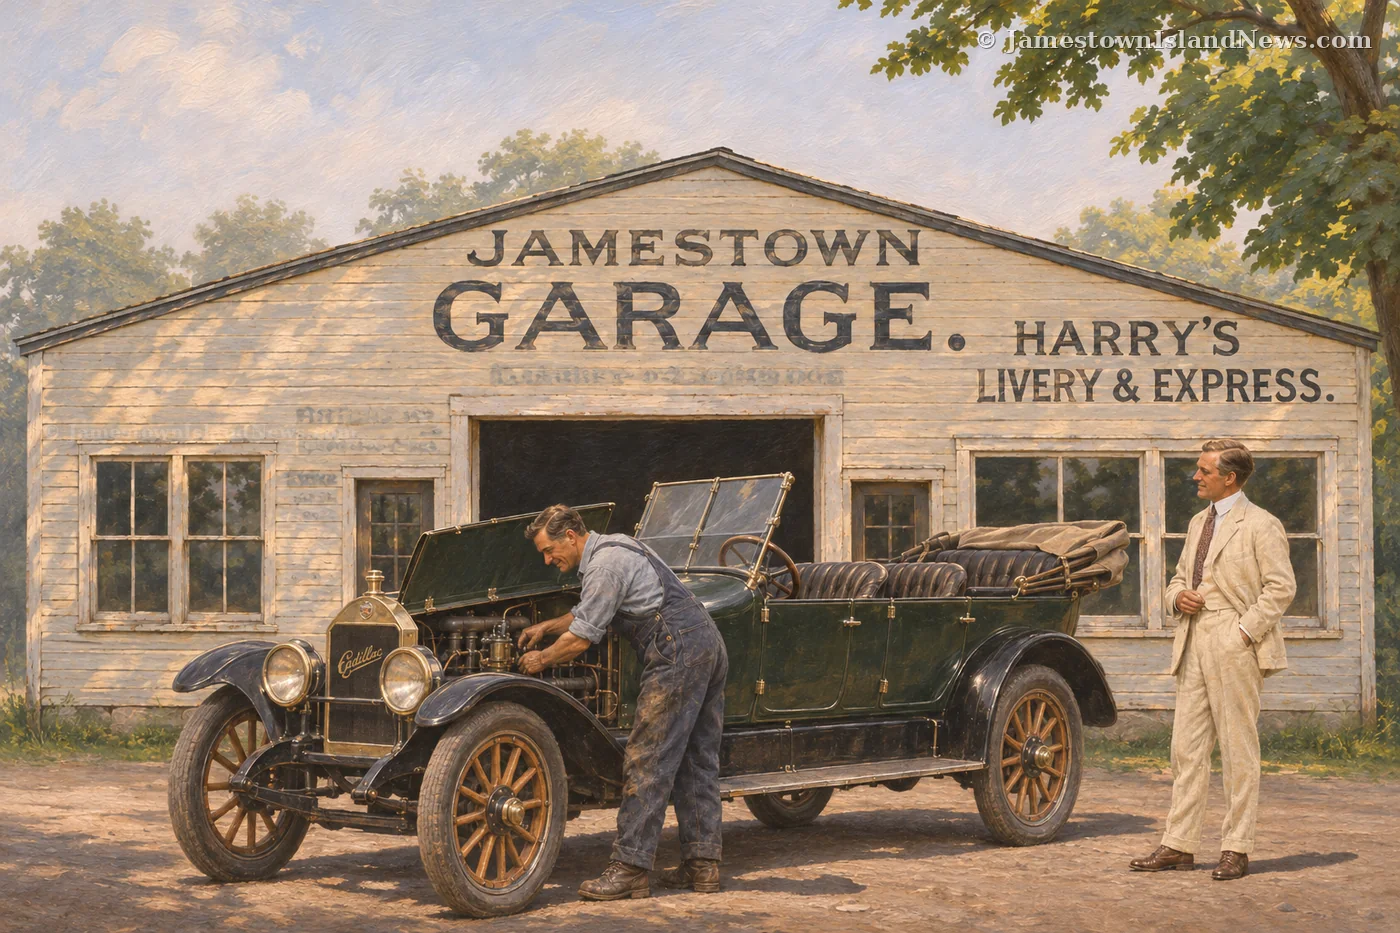
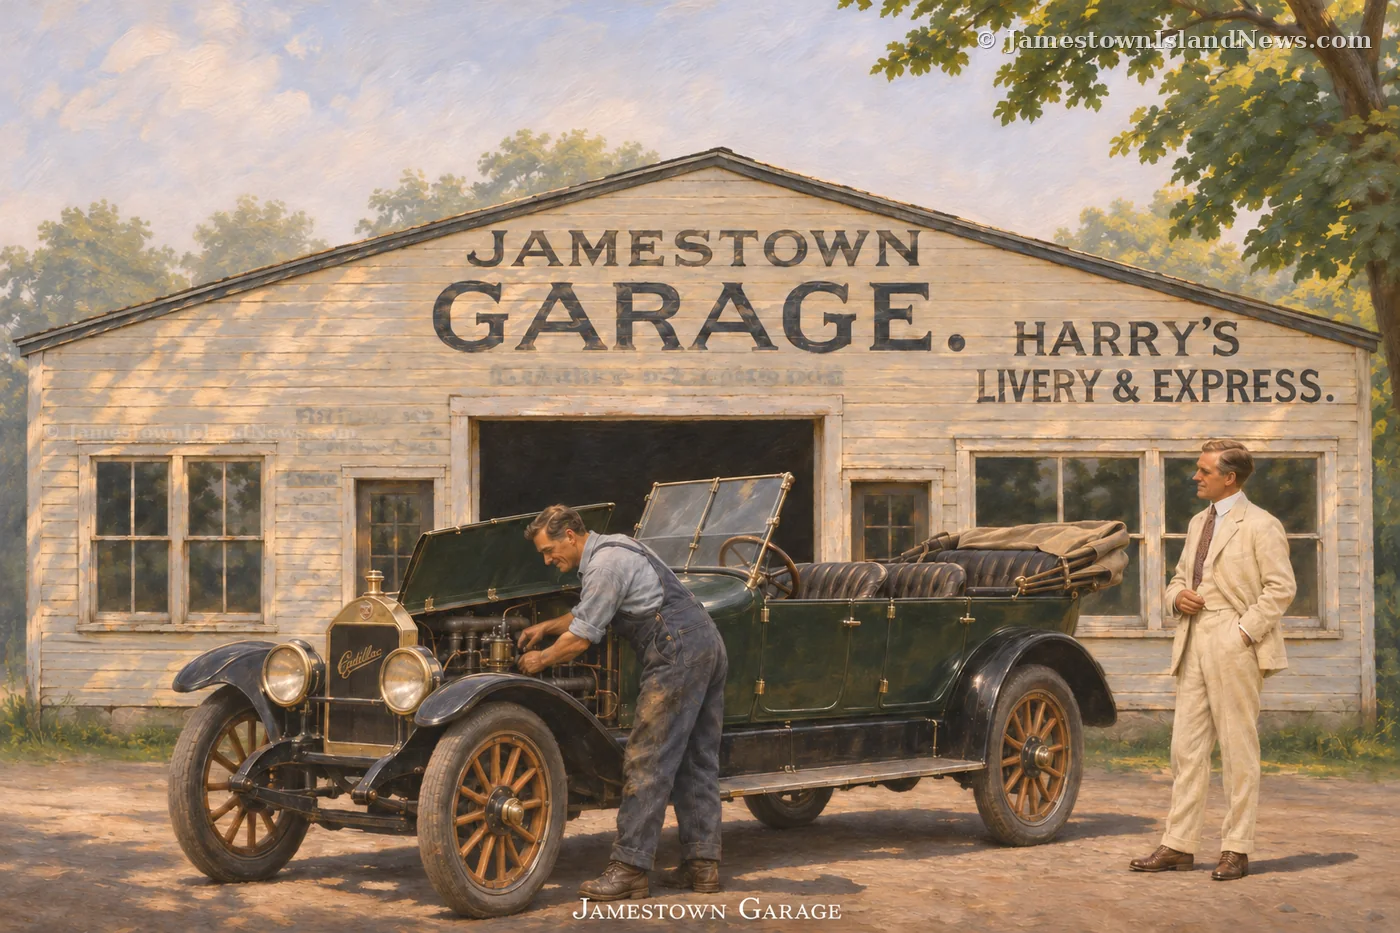
Art area: labeled Jamestown Garage, one small upcoming-event line per painting; old cover flips and ad back no longer take over the art box
Claude-Session: https://claude.ai/code/session_01Rvhfw8tap8tk6DKU34sk3v

diff --git a/index.html b/index.html
@@ -349,7 +349,7 @@ html body .cop::after{content:""!important;display:block!important;position:abso
 </style><style id="vwebCss">.vcard .vmeta a.vweb{font-weight:700;color:var(--k,#D4ECF5)!important;text-decoration:none}.vcard .vmeta a.vweb:hover{text-decoration:underline}.vcard p{margin:6px 0 8px}</style><script>window.EP_COVER_POSTERS=true;document.documentElement.classList.add("ep-cov")</script>
 <script>window.EP_COAST=true</script>
 <script>window.EP_MAST={img:'img/posters/story-jamestown.jpg'}</script>
-<script src="posters.js?v=44"></script>
+<script src="posters.js?v=45"></script>
 <style>.new3-glow{display:inline-block;margin-left:7px;padding:3px 8px;border-radius:5px;background:#B5123A;color:#fff;font-size:11px;font-weight:900;letter-spacing:.07em;vertical-align:middle;box-shadow:0 0 7px #B5123A,0 0 16px #B5123A;animation:new3pulse 1.8s ease-in-out infinite}@keyframes new3pulse{50%{box-shadow:0 0 13px #B5123A,0 0 26px #B5123A;background:#B5123A}}@media(prefers-reduced-motion:reduce){.new3-glow{animation:none}}</style><link rel="stylesheet" href="https://fonts.googleapis.com/css2?family=IM+Fell+English:ital@0;1&family=IM+Fell+English+SC&display=swap">
 </head>
 <body>
@@ -2521,7 +2521,7 @@ document.readyState==='loading'?document.addEventListener('DOMContentLoaded',st)
 const st=document.createElement('style');st.textContent='.cvr .cimg .cback{position:absolute;inset:0;display:none;z-index:6;cursor:pointer;background:#0F1F36}.cvr .cimg .cback img{display:block;width:100%;height:100%;object-fit:cover;animation:none!important;transform:none!important}.cvr .cimg.back .cback{display:block}';document.head.appendChild(st);
 const vidOn=()=>{const v=document.getElementById('irBox');return v&&getComputedStyle(v).display!=='none'&&getComputedStyle(v).opacity!=='0'};
 let busy=false;
-function flip(toBack){const b=document.querySelector('.cvr .cimg');if(!b||busy)return;if(toBack&&(document.hidden||vidOn()))return;if(!!toBack===b.classList.contains('back'))return;
+function flip(toBack){const b=document.querySelector('.cvr .cimg:not(.artBox)');if(!b||busy)return;if(toBack&&(document.hidden||vidOn()))return;if(!!toBack===b.classList.contains('back'))return;
  if(!b.querySelector('.cback')){const d=document.createElement('span');d.className='cback';d.innerHTML='<img src="'+BK+'" alt="Back cover: advertise with Jamestown Island News">';b.appendChild(d)}
  busy=true;b.style.transition='transform .38s ease-in';b.style.transform='perspective(1400px) rotateY(90deg)';
  setTimeout(()=>{b.classList.toggle('back',!!toBack);if(toBack)bar(b);else unbar();b.style.transition='none';b.style.transform='perspective(1400px) rotateY(-90deg)';
@@ -2555,7 +2555,7 @@ function evFace(kind){const E=EV&&EV.E,W=EV&&EV.W,B=EV&&EV.B;
   return {kind:'ev',html:photo(6)+'<span class="e-body"><i class="e-k">Worship on the island</i><div>'+ch.map(c=>{const st=new Set(),L=W[c].filter(x=>{const k=x.date+x.time;if(st.has(k))return false;st.add(k);return true}).slice(0,3);return '<h4>'+esc2(c.replace(/ Catholic| Episcopal/,''))+'</h4><ul>'+L.map(x=>{const d=dparts(x.date);return '<li><span>'+esc2(x.artists.replace(/ at .*$/,''))+'</span><i>'+d[0]+' '+esc2(x.time)+'</i></li>'}).join('')+'</ul>'}).join('')+'</div><span class="e-go">Island calendar →</span></span>'}}
  const x=E[evI++%E.length],d=dparts(x.date);if(window.bigPoster){const bp=window.bigPoster(x,'Jamestown');if(bp)return {kind:'ev',html:bp}}const ph=/narragansett caf/i.test(x.venue)?[5,0,1,3][evI%4]:evI;
  return {kind:'ev',html:photo(ph)+'<span class="e-dt"><small>'+d[0]+'</small>'+esc2(d[1])+'</span><span class="e-body"><i class="e-k">Coming up on the island</i><strong class="e-t '+tcls(x.artists)+'">'+esc2(x.artists)+'</strong><span class="e-w">'+esc2(x.time)+'</span><span class="e-v">'+esc2(x.venue)+'<small>'+esc2((x.address||'').replace(/,? ?Jamestown, RI \d+/,'').replace(x.venue+', ','').replace(x.venue,''))+'</small></span><span class="e-go">Island calendar →</span></span>'}}
-function flipEvt(on,kind){const b=document.querySelector('.cvr .cimg');if(!b||busy)return;if(on&&(document.hidden||vidOn()||b.classList.contains('back')))return;if(!!on===b.classList.contains('evt'))return;
+function flipEvt(on,kind){const b=document.querySelector('.cvr .cimg:not(.artBox)');if(!b||busy)return;if(on&&(document.hidden||vidOn()||b.classList.contains('back')))return;if(!!on===b.classList.contains('evt'))return;
  let html=null;if(on){const r=evFace(kind);if(!r)return;html=r.html;let f=b.querySelector('.cevt');if(!f){f=document.createElement('span');f.className='cevt';b.appendChild(f)}f.dataset.kind=r.kind;f.innerHTML=html}
  busy=true;b.style.transition='transform .38s ease-in';b.style.transform='perspective(1400px) rotateY(90deg)';
  setTimeout(()=>{b.classList.toggle('evt',!!on);b.style.transition='none';b.style.transform='perspective(1400px) rotateY(-90deg)';
@@ -2586,9 +2586,9 @@ function tkBuild(el){tkLoad().then(t=>{if(!t||!t.rows.length)return;const one=t.
 setInterval(()=>{const s=document.querySelector('.cvr .cvside');if(!s||s.querySelector('.evtk'))return;const d=document.createElement('div');d.className='evtk';s.appendChild(d);tkBuild(d)},1000);
 addEventListener('click',e=>{const c=e.target.closest&&e.target.closest('.evtk .tr');if(!c)return;e.preventDefault();e.stopImmediatePropagation();try{go('cal')}catch(_){location.hash='cal'}},true);
 let frozen=false;const held=()=>frozen||!!document.querySelector('.cvr .cimg:hover,.bkSpread:hover');const whenFree=fn=>{const tk=()=>{if(held())setTimeout(tk,1000);else fn()};tk()};
-let cyc=0;setInterval(()=>{const b=document.querySelector('.cvr .cimg');if(!b||busy||b.classList.contains('back')||b.classList.contains('evt')||document.hidden||vidOn())return;const k=cyc++%10;if(k===0){flip(true);setTimeout(()=>whenFree(()=>flip(false)),7000)}else if(k===5){openBook()}else{const kind=(k===4||k===9)?'biz':(k===8?'worship':'ev');evLoad().then(()=>{flipEvt(true,kind);setTimeout(()=>whenFree(()=>flipEvt(false)),7000)})}},14000);
+let cyc=0;setInterval(()=>{const b=document.querySelector('.cvr .cimg:not(.artBox)');if(!b||busy||b.classList.contains('back')||b.classList.contains('evt')||document.hidden||vidOn())return;const k=cyc++%10;if(k===0){flip(true);setTimeout(()=>whenFree(()=>flip(false)),7000)}else if(k===5){openBook()}else{const kind=(k===4||k===9)?'biz':(k===8?'worship':'ev');evLoad().then(()=>{flipEvt(true,kind);setTimeout(()=>whenFree(()=>flipEvt(false)),7000)})}},14000);
 ['img/inside-cover-ad.jpg','img/page-one-ad.jpg'].forEach(s=>{new Image().src=s});
-function openBook(){const b=document.querySelector('.cvr .cimg');if(!b||busy||document.hidden||vidOn()||b.classList.contains('back'))return;const cv=b.closest('.cvr');if(!cv)return;
+function openBook(){const b=document.querySelector('.cvr .cimg:not(.artBox)');if(!b||busy||document.hidden||vidOn()||b.classList.contains('back'))return;const cv=b.closest('.cvr');if(!cv)return;
  busy=true;if(getComputedStyle(cv).position==='static')cv.style.position='relative';
  const r=b.getBoundingClientRect(),c=cv.getBoundingClientRect();const L=r.left-c.left,T=r.top-c.top,w=Math.min(r.width*2,c.right-r.left);
  const s=document.createElement('div');s.className='bkSpread';s.style.cssText='position:absolute;left:'+L+'px;top:'+T+'px;width:'+w+'px;height:'+r.height+'px;z-index:3;display:flex;opacity:0;transition:opacity .5s ease;cursor:pointer;box-shadow:0 18px 40px rgba(10,20,40,.7);border-radius:6px;overflow:hidden';
@@ -2765,7 +2765,7 @@ const go=()=>{const l=document.getElementById('dirList');if(!l)return setTimeout
 <script id="mailLinks">addEventListener('click',e=>{const a=e.target.closest&&e.target.closest('a[href="#coverage"],a[href="#contact"]');if(!a)return;e.preventDefault();e.stopImmediatePropagation();const u=['doug','islandnewsmedia'].join(String.fromCharCode(64))+'.com';const s=a.getAttribute('href')==='#coverage'?'Coverage request for Jamestown Island News':'Jamestown Island News';location.href='mai'+'lto:'+u+'?subject='+encodeURIComponent(s)},true);</script>
 <script id="bridgeCar">(()=>{return;const st=document.createElement('style');st.textContent='.cvr .cimg .car{position:absolute;z-index:4;width:2.2%;height:.6%;pointer-events:none;transform:translate(-50%,-100%)}.cvr .cimg .car::before,.cvr .cimg .car::after{content:"";position:absolute;top:0;width:45%;height:100%;border-radius:50%}.cvr .cimg .car.r::after,.cvr .cimg .car.l::before{background:#EEE9E5;box-shadow:0 0 6px 2px rgba(238,233,229,.9),0 0 14px 4px rgba(238,233,229,.45)}.cvr .cimg .car.r::before,.cvr .cimg .car.l::after{background:#B5123A;box-shadow:0 0 5px 1px rgba(181,18,58,.8)}.cvr .cimg .car::before{left:0}.cvr .cimg .car::after{right:0}.cvr .cimg.back .car,.cvr .cimg.evt .car{display:none}';document.head.appendChild(st);
 const X0=0,Y0=39.6,X1=100,Y1=49.7;
-function drive(){const b=document.querySelector('.cvr .cimg');if(b&&!document.hidden&&!b.classList.contains('back')&&b.style.opacity!=='0'){const r=Math.random()<.5;const c=document.createElement('span');c.className='car '+(r?'r':'l');b.appendChild(c);
+function drive(){const b=document.querySelector('.cvr .cimg:not(.artBox)');if(b&&!document.hidden&&!b.classList.contains('back')&&b.style.opacity!=='0'){const r=Math.random()<.5;const c=document.createElement('span');c.className='car '+(r?'r':'l');b.appendChild(c);
  const a=r?[X0,Y0,X1,Y1]:[X1,Y1,X0,Y0];const dur=7000+Math.random()*3000;
  const an=c.animate([{left:a[0]+'%',top:a[1]+'%',opacity:0},{opacity:1,offset:.06},{opacity:1,offset:.94},{left:a[2]+'%',top:a[3]+'%',opacity:0}],{duration:dur,easing:'linear'});an.onfinish=()=>c.remove()}
  setTimeout(drive,12000+Math.random()*25000)}
@@ -3099,6 +3099,10 @@ go();addEventListener('DOMContentLoaded',go);setTimeout(go,1500)})();</script>
 #artBig{position:fixed;inset:0;z-index:9999;background:rgba(10,20,40,.94);display:flex;align-items:center;justify-content:center;cursor:zoom-out}
 #artBig img{max-width:94vw;max-height:90vh;box-shadow:0 10px 40px #000}
 #coverSlot .cimg .artShow .ab{position:absolute;inset:-30px;background:center/cover no-repeat;filter:blur(22px) brightness(.55)}#coverSlot .cimg .artShow .af{position:absolute;inset:0;background:center/contain no-repeat}#coverSlot .cimg .artShow .af.cv{background-size:cover}
+#coverSlot .cimg .artShow .artAd{position:absolute;left:10px;right:10px;top:10px;z-index:3;display:block;padding:7px 10px;border-radius:5px;background:rgba(10,20,40,.72);color:#fff;text-decoration:none;font:600 13px/1.3 "Libre Franklin",Arial,sans-serif;opacity:0;transition:opacity .8s}
+#coverSlot .cimg .artShow .artAd.on{opacity:1}
+#coverSlot .cimg .artShow .artAd small{display:block;font:700 10.5px/1.2 "Libre Franklin",Arial,sans-serif;letter-spacing:.14em;text-transform:uppercase;color:#D4ECF5;margin-bottom:2px}
+#coverSlot .cimg .artShow .artAd b{font:700 15px/1.25 "Playfair Display",Georgia,serif;color:#fff}
 </style>
 <script id="artShowJs">(()=>{
 /* Art area: the box beside the top story shows the owner's best paintings */
@@ -3107,7 +3111,14 @@ const go=()=>{const old=document.querySelector('#coverSlot .cimg:not(.artBox)');
 const a=document.createElement('span');a.className='artShow';a.setAttribute('role','img');a.setAttribute('aria-label','Paintings of Jamestown');
 a.innerHTML=ART.map((x,i)=>'<span class="ai'+(i?'':' on')+'">'+(x[3]==='fit'?'<span class="ab" style="background-image:url('+x[0]+')"></span><span class="af" style="background-image:url('+x[0]+')"></span>':'<span class="af cv" style="background-image:url('+x[0]+');background-position:'+x[1]+' 50%"></span>')+'</span>').join('')+'<span class="artLbl"></span>';
 box.appendChild(a);let i=0;const I=[...a.querySelectorAll('.ai')];const L=a.querySelector('.artLbl');const lab=()=>{const s=ART[i][2];L.textContent=s===''?'':(s||'Jamestown Art');L.style.display=s===''?'none':''};lab();
-if(I.length>1&&!matchMedia('(prefers-reduced-motion: reduce)').matches)setInterval(()=>{I[i].classList.remove('on');i=(i+1)%I.length;I[i].classList.add('on');lab()},8000);
+/* one small line of upcoming Jamestown event on each painting; kept short so the art shows */
+const AD=document.createElement('a');AD.className='artAd';AD.target='_blank';AD.rel='noopener';a.appendChild(AD);let EVS=[];
+const fmt=d=>new Date(d+'T12:00:00').toLocaleDateString('en-US',{weekday:'short',month:'short',day:'numeric'});
+const ad=()=>{if(!EVS.length){AD.classList.remove('on');return}const e=EVS[i%EVS.length];AD.innerHTML='<small>Coming up · '+fmt(e.date)+(e.time?' · '+e.time.replace(/\s*[-–].*/,''):'')+'</small><b></b>';AD.querySelector('b').textContent=(e.artists||'').replace(/\s*\([^)]*\)/g,'').slice(0,70);if(e.url){AD.href=e.url}else{AD.removeAttribute('href')}AD.classList.add('on')};
+AD.addEventListener('click',e=>{e.stopPropagation()},true);
+fetch('data/cal.json').then(r=>r.json()).then(d=>{const td=new Date().toLocaleDateString('en-CA',{timeZone:'America/New_York'});const lim=new Date(Date.now()+21*864e5).toISOString().slice(0,10);const seen=new Set();
+EVS=(d.events||[]).filter(e=>e.date>td&&e.date<=lim&&e.time&&!/worship|meeting|board|committee|mass|confession/i.test((e.genre||'')+' '+(e.artists||''))).filter(e=>{const k=(e.artists||'').toLowerCase().slice(0,24);if(seen.has(k))return false;seen.add(k);return true}).sort((x,y)=>x.date<y.date?-1:1).slice(0,12);ad()}).catch(()=>{});
+if(I.length>1&&!matchMedia('(prefers-reduced-motion: reduce)').matches)setInterval(()=>{I[i].classList.remove('on');AD.classList.remove('on');i=(i+1)%I.length;I[i].classList.add('on');lab();setTimeout(ad,500)},8000);
 a.addEventListener('click',e=>{e.preventDefault();e.stopPropagation();const o=document.createElement('div');o.id='artBig';o.innerHTML='<img src="'+ART[i][0]+'" alt="">';o.addEventListener('click',()=>o.remove());document.addEventListener('keydown',function k(ev){if(ev.key==='Escape'){o.remove();document.removeEventListener('keydown',k)}});document.body.appendChild(o)},true)};
 let q=0;const mo=new MutationObserver(()=>{if(q)return;q=1;requestAnimationFrame(()=>{q=0;go()})});addEventListener('DOMContentLoaded',()=>{go();mo.observe(document.body,{childList:true,subtree:true})});go()})();</script>
 </body>

diff --git a/posters.js b/posters.js
@@ -246,7 +246,7 @@ function rotator(getHost,pick,ms,start,opts){let i=start||0,face=0,cur=null;
 /* the box under the cover: every show, poster then facts */
 rotator(()=>{const b=document.querySelector('.cvr .pbx');if(b)b._busy=true;return b},()=>evs(),8000,window.EP_COVER_POSTERS?7:0,{worship:1,noweek:!!window.EP_COVER_POSTERS});
 /* the cover itself becomes a poster rotator when the page opts in */
-if(window.EP_COVER_POSTERS)rotator(()=>document.querySelector('.cvr .cimg'),()=>{const E=evs();const big=E.filter(e=>BIG.test(e.venue||''));return big.length>=3?big:E},9000);
+if(window.EP_COVER_POSTERS)rotator(()=>document.querySelector('.cvr .cimg:not(.artBox)'),()=>{const E=evs();const big=E.filter(e=>BIG.test(e.venue||''));return big.length>=3?big:E},9000);
 })();
 /* Variety: shuffle the event pool each visit, spread across venues and kinds, so the same few shows don't loop */
 window.epMix=function(L){try{
